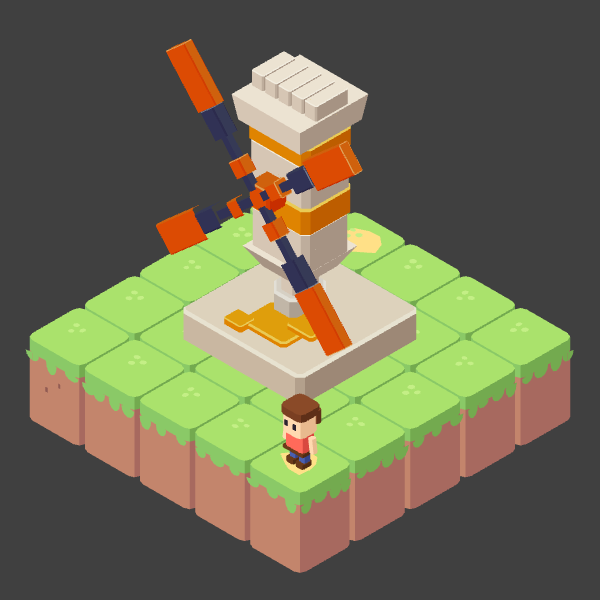
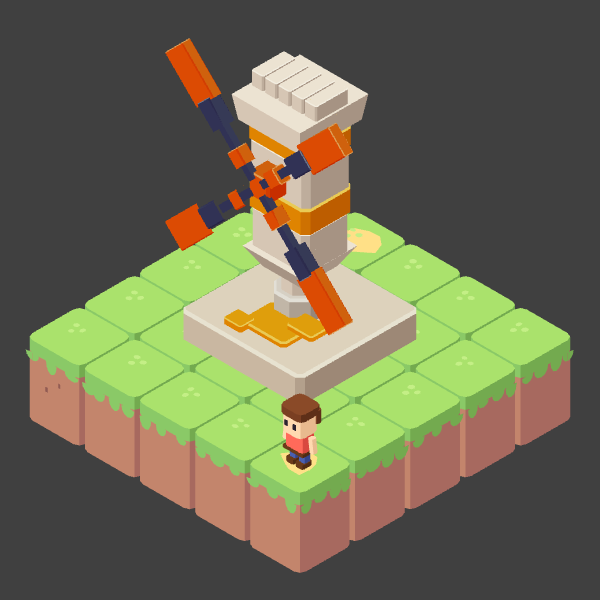
Raise the paint-tube windmill hub so its knives clear the plinth; rank landmark spots by gap and spawn distance
The critic on cat-medium read the lower knife as cutting into the plinth.
The hub now sits at 2.72 with the knives at 45 degrees. Landmark ranking
weighs the gap to the figure court above how far behind it a spot sits,
and penalises spots within five cells of spawn, so the crane no longer
lands beside dragon-medium's spawn.

diff --git a/3d/pieces/multitile-themed-a.js b/3d/pieces/multitile-themed-a.js
@@ -36,7 +36,7 @@ function paintTubeWindmill(K, L) {
   K.part("crimp", {}, () => {
     for (let i = 0; i < 5; i++) K.rbox(0.22, 0.24, 0.6, L.cream, -0.48 + i * 0.24, 3.81, 0);
   });
-  const hub = [0, 2.55, 0.74], ang = 0.72;
+  const hub = [0, 2.72, 0.74], ang = Math.PI / 4;
   K.part("hub", {}, () => K.rbox(0.36, 0.36, 0.4, L.orange, hub[0], hub[1] - 0.18, 0.56));
   B.sway("crown", { amp: CROWN * 0.6, root: hub, span: 2.0 }, () => {
     K.part("collars", {}, () => {
@@ -49,7 +49,7 @@ function paintTubeWindmill(K, L) {
       });
     });
     K.part("blades", {}, () => {
-      for (let k = 0; k < 4; k++) tilt(B, hub, [0, 0, 1], ang + k * Math.PI / 2, () => K.rbox(0.44, 0.9, 0.16, L.orange, 0, 1.32, 0));
+      for (let k = 0; k < 4; k++) tilt(B, hub, [0, 0, 1], ang + k * Math.PI / 2, () => K.rbox(0.44, 0.82, 0.16, L.orange, 0, 1.28, 0));
     });
   });
 }
@@ -328,12 +328,12 @@ function candidates(level, h, type, route) {
       if (cs.some(([a, b]) => a + b > fMax && Math.abs(a - b - fLat) <= 2.5)) continue;
       const C = [x + w / 2, z + d / 2];
       const gap = Math.max(Math.max(0, Math.min(...fx) - (x + w - 1), x - Math.max(...fx)), Math.max(0, Math.min(...fz) - (z + d - 1), z - Math.max(...fz)));
-      if (gap < 1 || gap > 5) continue;
+      if (gap < 1 || gap > 7) continue;
       const depth = (C[0] + C[1]) - (F[0] + F[1]);
       let ang = Math.abs(Math.atan2(C[1] - S[1], C[0] - S[0]) - toF);
       if (ang > Math.PI) ang = 2 * Math.PI - ang;
       const rim = cs.filter(([a, b]) => [[1, 0], [0, 1]].some(([p, q]) => !h.land(h.cell(a + p, b + q)))).length / cs.length;
-      out.push({ x, z, rot, score: gap + Math.max(0, depth) * 1.5 + ang * 2 + (c0.h < fh ? 1 : 0) + rim * 0.5 });
+      out.push({ x, z, rot, score: gap * 1.5 + Math.max(0, depth) * 0.6 + ang * 2 + Math.max(0, 5 - Math.hypot(C[0] - S[0], C[1] - S[1])) + (c0.h < fh ? 1 : 0) + rim * 0.5 });
     }
   }
   return out.sort((a, b) => a.score - b.score);
